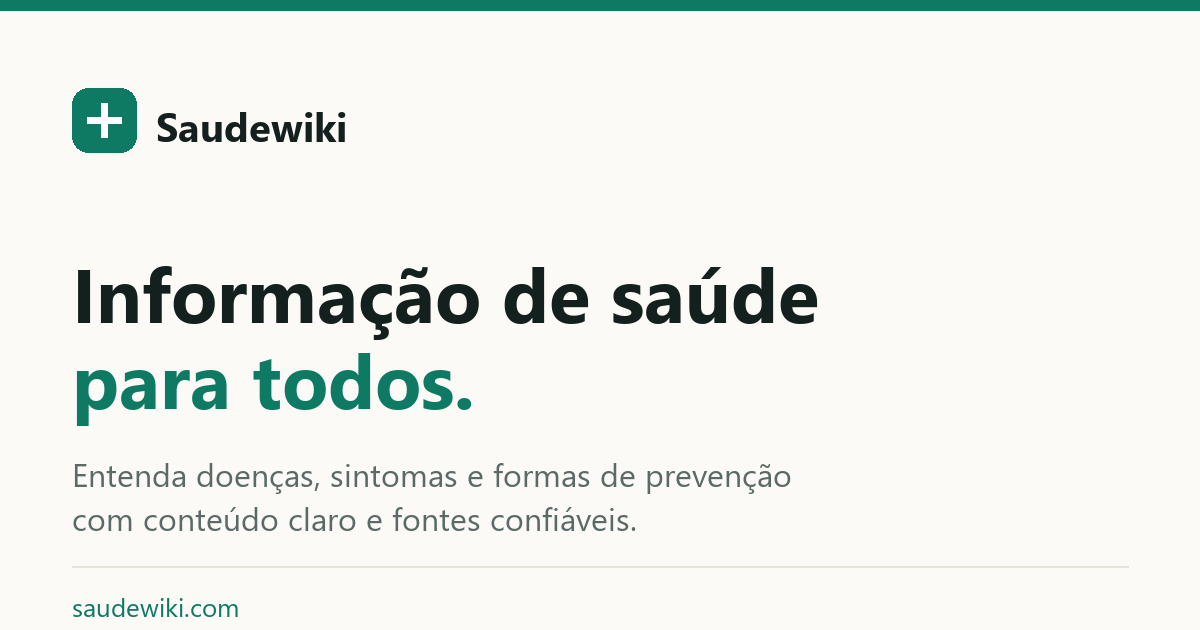
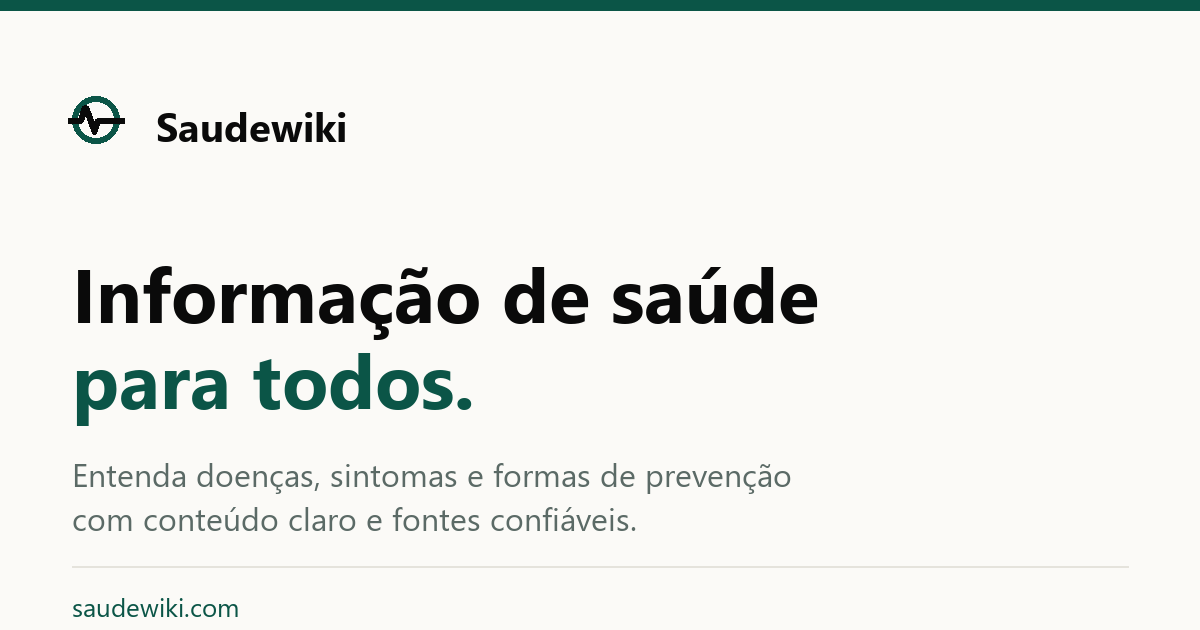
Adopt the ring-and-pulse brand mark across site identity
The header used a stock tabler heartbeat glyph on a coloured tile, which
read as a generic app icon rather than a medical authority. Replace it
with a drawn mark — an arterial ring crossed by a single pulse — whose
two strokes ride the theme tokens, so one component serves both the
light and dark header without a hand-tuned variant.

The outlined mark collapses at tab size, so the favicon becomes a filled
disc with the pulse knocked out. Raster brand assets now come from one
generator, and JSON-LD points at a 512px PNG because Google's
Organization logo requires a raster it can crawl.

Raster accents move from #0e7a63 to the CSS token #0b5547 so the social
image and the rendered page agree.

diff --git a/scripts/generate-og.py b/scripts/generate-og.py
@@ -1,10 +1,16 @@
-"""Generate the Open Graph image referenced by BaseLayout (`/og-1200x630.png`).
+"""Generate the site's raster brand assets from the Saudewiki mark.
 
 Run from the project root:
 
     python scripts/generate-og.py
 
-The image is committed as a static asset; it is not regenerated during build.
+This writes `public/og-1200x630.png`, `public/logo-512.png`,
+`public/apple-touch-icon.png` and `public/favicon.png`. They are committed as
+static assets; nothing here runs during `astro build`.
+
+The vector originals live elsewhere and stay the source of truth:
+`public/favicon.svg` (disc variant, legible at 16px) and
+`src/components/BrandMark.astro` (outlined ring, used in the header lockup).
 """
 
 from pathlib import Path
@@ -14,28 +20,75 @@ from PIL import Image, ImageDraw, ImageFont
 W, H = 1200, 630
 BG = (251, 250, 247)
 SURFACE = (255, 255, 255)
-INK = (20, 32, 29)
+INK = (10, 10, 10)
 MUTED = (91, 106, 102)
-ACCENT = (14, 122, 99)
+ACCENT = (11, 85, 71)
 RULE = (229, 227, 220)
 
 FONT_BOLD = "C:/Windows/Fonts/segoeuib.ttf"
 FONT_REGULAR = "C:/Windows/Fonts/segoeui.ttf"
 
-OUT = Path(__file__).resolve().parent.parent / "public" / "og-1200x630.png"
+OUT_DIR = Path(__file__).resolve().parent.parent / "public"
+
+# The mark is authored in a 48x48 space; every helper below maps from it.
+MARK_SPACE = 48.0
+RING_CX, RING_CY, RING_R, RING_W = 24.0, 24.0, 17.5, 4.6
+PULSE_W = 4.6
+PULSE_PATH = [
+    (3.0, 24.0),
+    (13.0, 24.0),
+    (16.4, 14.4),
+    (22.6, 33.6),
+    (26.0, 24.0),
+    (45.0, 24.0),
+]
+# The disc variant inverts the mark for small sizes: filled circle, white pulse.
+DISC_R, DISC_PULSE_W = 21.0, 5.0
+DISC_PULSE_PATH = [
+    (6.0, 24.0),
+    (14.0, 24.0),
+    (17.2, 15.0),
+    (23.2, 33.0),
+    (26.4, 24.0),
+    (42.0, 24.0),
+]
 
 
-def main() -> None:
+def _scale(points, size, offset):
+    k = size / MARK_SPACE
+    ox, oy = offset
+    return [(ox + x * k, oy + y * k) for x, y in points]
+
+
+def draw_ring_mark(draw, offset, size, ring, pulse):
+    """The outlined ring crossed by the pulse, as used in the header lockup."""
+    k = size / MARK_SPACE
+    cx, cy = offset[0] + RING_CX * k, offset[1] + RING_CY * k
+    r = RING_R * k
+    w = max(1, round(RING_W * k))
+    draw.ellipse([cx - r, cy - r, cx + r, cy + r], outline=ring, width=w)
+    width = max(1, round(PULSE_W * k))
+    draw.line(_scale(PULSE_PATH, size, offset), fill=pulse, width=width, joint="curve")
+
+
+def draw_disc_mark(draw, offset, size, disc, pulse):
+    """The filled-disc variant, for favicon and app-icon sizes."""
+    k = size / MARK_SPACE
+    cx, cy = offset[0] + RING_CX * k, offset[1] + RING_CY * k
+    r = DISC_R * k
+    draw.ellipse([cx - r, cy - r, cx + r, cy + r], fill=disc)
+    width = max(1, round(DISC_PULSE_W * k))
+    draw.line(_scale(DISC_PULSE_PATH, size, offset), fill=pulse, width=width, joint="curve")
+
+
+def make_og() -> None:
     img = Image.new("RGB", (W, H), BG)
     draw = ImageDraw.Draw(img)
 
     draw.rectangle([0, 0, W, 10], fill=ACCENT)
 
-    mark_x, mark_y, mark = 72, 88, 64
-    draw.rounded_rectangle([mark_x, mark_y, mark_x + mark, mark_y + mark], radius=16, fill=ACCENT)
-    draw.rectangle([mark_x + 29, mark_y + 15, mark_x + 35, mark_y + 49], fill=SURFACE)
-    draw.rectangle([mark_x + 15, mark_y + 29, mark_x + 49, mark_y + 35], fill=SURFACE)
-
+    mark, mark_x, mark_y = 64, 64, 88
+    draw_ring_mark(draw, (mark_x, mark_y), mark, ACCENT, INK)
     draw.text((156, 98), "Saudewiki", font=ImageFont.truetype(FONT_BOLD, 40), fill=INK)
 
     headline = ImageFont.truetype(FONT_BOLD, 76)
@@ -49,9 +102,52 @@ def main() -> None:
     draw.rectangle([72, 566, W - 72, 567], fill=RULE)
     draw.text((72, 588), "saudewiki.com", font=ImageFont.truetype(FONT_REGULAR, 26), fill=ACCENT)
 
-    OUT.parent.mkdir(parents=True, exist_ok=True)
-    img.save(OUT, "PNG", optimize=True)
-    print(f"wrote {OUT} ({OUT.stat().st_size} bytes)")
+    path = OUT_DIR / "og-1200x630.png"
+    img.save(path, "PNG", optimize=True)
+    print(f"wrote {path} ({path.stat().st_size} bytes)")
+
+
+def make_logo_512() -> None:
+    """Square logo for JSON-LD `Organization.logo` — Google asks for >= 112px."""
+    s = 512
+    img = Image.new("RGB", (s, s), SURFACE)
+    draw = ImageDraw.Draw(img)
+    draw_ring_mark(draw, (s * 0.10, s * 0.10), s * 0.80, ACCENT, INK)
+    path = OUT_DIR / "logo-512.png"
+    img.save(path, "PNG", optimize=True)
+    print(f"wrote {path} ({path.stat().st_size} bytes)")
+
+
+def make_apple_touch_icon() -> None:
+    """iOS ignores transparency, so the icon is a full-bleed accent tile."""
+    s = 180
+    img = Image.new("RGB", (s, s), ACCENT)
+    draw = ImageDraw.Draw(img)
+    k = s / MARK_SPACE
+    width = max(1, round(5.0 * k))
+    draw.line(_scale(DISC_PULSE_PATH, s, (0, 0)), fill=SURFACE, width=width, joint="curve")
+    path = OUT_DIR / "apple-touch-icon.png"
+    img.save(path, "PNG", optimize=True)
+    print(f"wrote {path} ({path.stat().st_size} bytes)")
+
+
+def make_favicon_png() -> None:
+    """PNG fallback for the SVG favicon."""
+    s = 64
+    img = Image.new("RGBA", (s, s), (0, 0, 0, 0))
+    draw = ImageDraw.Draw(img)
+    draw_disc_mark(draw, (0, 0), s, ACCENT, SURFACE)
+    path = OUT_DIR / "favicon.png"
+    img.save(path, "PNG", optimize=True)
+    print(f"wrote {path} ({path.stat().st_size} bytes)")
+
+
+def main() -> None:
+    OUT_DIR.mkdir(parents=True, exist_ok=True)
+    make_og()
+    make_logo_512()
+    make_apple_touch_icon()
+    make_favicon_png()
 
 
 if __name__ == "__main__":
